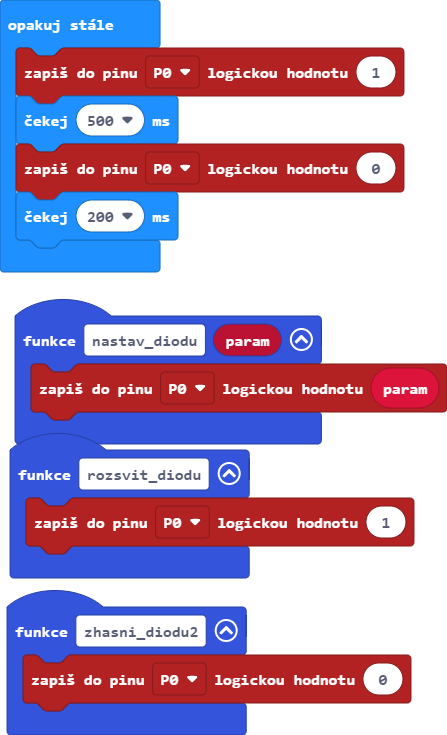
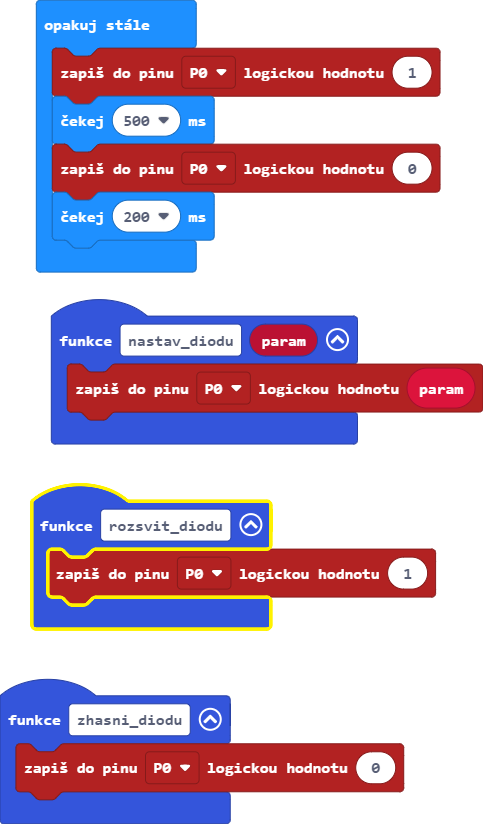
Aktualizovat pxt.json, main.blocks, main.ts

diff --git a/main.ts b/main.ts
@@ -1,16 +1,13 @@
-function nastav_diodu(param: number) {
-    pins.digitalWritePin(DigitalPin.P0, param)
-}
-
-function zhasni_diodu2() {
+function zhasni_diodu () {
     pins.digitalWritePin(DigitalPin.P0, 0)
 }
-
-function rozsvit_diodu() {
+function nastav_diodu (param: number) {
+    pins.digitalWritePin(DigitalPin.P0, param)
+}
+function rozsvit_diodu () {
     pins.digitalWritePin(DigitalPin.P0, 1)
 }
-
-basic.forever(function on_forever() {
+basic.forever(function () {
     pins.digitalWritePin(DigitalPin.P0, 1)
     basic.pause(500)
     pins.digitalWritePin(DigitalPin.P0, 0)
